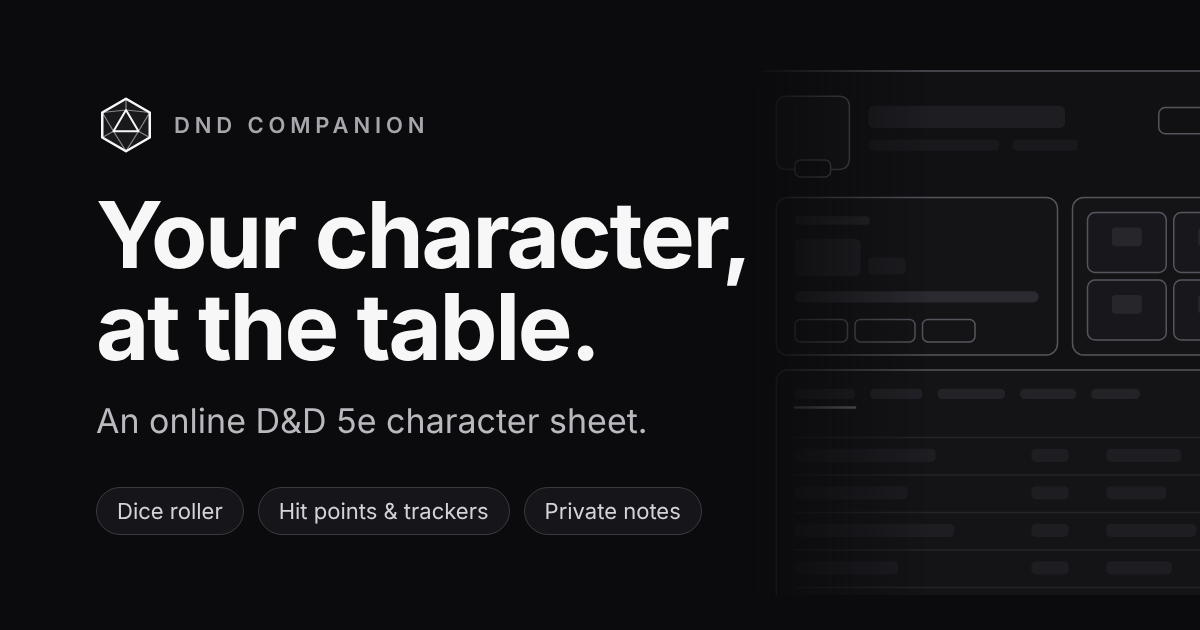
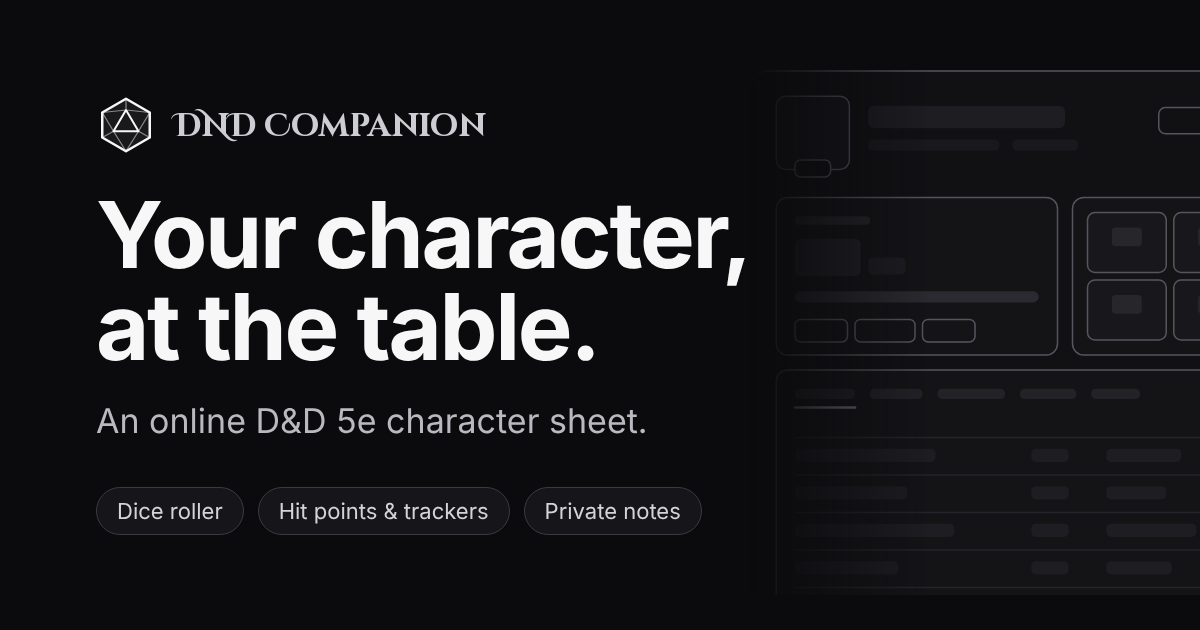
feat(brand): set DND Companion in Cinzel Decorative

Changed region(s): [[0.1233, 0.181, 0.4008, 0.2413]]

diff --git a/src/app.html b/src/app.html
@@ -13,10 +13,12 @@
       (PUBLIC_SITE_URL, set by the deploy workflow).
     -->
     <meta name="description" content="An online D&amp;D 5e character sheet." />
-    <!-- The site's type: Inter, from Google Fonts (src/app.css, --font-ui). -->
+    <!-- The site's type: Inter, from Google Fonts (src/app.css, --font-ui), and
+         Cinzel Decorative for the name "DND Companion" wherever it is the
+         brand (--font-brand). -->
     <link rel="preconnect" href="https://fonts.googleapis.com" />
     <link rel="preconnect" href="https://fonts.gstatic.com" crossorigin />
-    <link rel="stylesheet" href="https://fonts.googleapis.com/css2?family=Inter:wght@400..700&display=swap" />
+    <link rel="stylesheet" href="https://fonts.googleapis.com/css2?family=Cinzel+Decorative:wght@400;700&family=Inter:wght@400..700&display=swap" />
     <meta name="theme-color" content="#0b0b0d" />
     <!-- Home-screen app: the manifest for Android, the apple-* tags for iPhone. -->
     <link rel="manifest" href="%sveltekit.assets%/manifest.webmanifest" />
@@ -77,10 +79,10 @@
          away. The script below decides before the first paint. */
       html[data-known-user] #splash { display: none; }
       #splash span {
-        font-size: 0.75rem;
-        letter-spacing: 0.22em;
-        text-transform: uppercase;
-        font-weight: 600;
+        font-family: 'Cinzel Decorative', Georgia, serif;
+        font-size: 0.875rem;
+        letter-spacing: 0.08em;
+        font-weight: 700;
         color: oklch(65% 0.006 286);
       }
       #splash.out {

diff --git a/src/app.css b/src/app.css
@@ -165,6 +165,8 @@
 :root {
   --font-ui: 'Inter', system-ui, -apple-system, 'Segoe UI', sans-serif;
   --font-display: var(--font-ui);
+  /* The name "DND Companion" where it stands for the site: header, sign-in, splash. */
+  --font-brand: 'Cinzel Decorative', Georgia, 'Times New Roman', serif;
 }
 html, body { margin: 0; height: 100%; }
 /* Nothing may make the page wider than the screen: on a phone that lets the
@@ -276,3 +278,14 @@ body {
 }
 .rolls-hover:hover .diemark, .rolls-hover:focus-within .diemark { color: var(--a); transform: rotate(72deg) scale(1.15); }
 @media (prefers-reduced-motion: reduce) { .diemark { transition: none; } }
+
+/* "DND Companion" as the site's name. Cinzel Decorative sets its lower case
+   as small capitals, so the words keep their case and size a touch larger. */
+.brandname {
+  font-family: var(--font-brand);
+  font-weight: 700;
+  letter-spacing: 0.01em;
+  white-space: nowrap;
+  overflow: hidden;
+  text-overflow: ellipsis;
+}

diff --git a/src/lib/components/AuthForm.svelte b/src/lib/components/AuthForm.svelte
@@ -166,8 +166,8 @@
   }
   .brand :global(.logo) { color: var(--text); }
   .brand p {
-    margin: 0; text-align: center; font-size: 1.25rem;
-    font-weight: 600; letter-spacing: -0.01em;
+    margin: 0; text-align: center; font-size: 1.375rem;
+    font-family: var(--font-brand); font-weight: 700; letter-spacing: 0.01em;
   }
   /* Its own page centres in the viewport; embedded, it sits in the flow. */
   .standalone { min-height: 100dvh; align-items: center; padding: 1.5rem; }

diff --git a/src/routes/privacy/+page.svelte b/src/routes/privacy/+page.svelte
@@ -9,7 +9,7 @@
 <svelte:head><title>Privacy · DND Companion</title></svelte:head>
 
 <main class="policy">
-  <a class="back" href="{base}/">← DND Companion</a>
+  <a class="back" href="{base}/">← <span class="brandname">DND Companion</span></a>
   <h1>Privacy</h1>
   <p class="dim">Last updated 9 November 2026.</p>
 

diff --git a/src/routes/+page.svelte b/src/routes/+page.svelte
@@ -396,7 +396,7 @@
 {:else}
 <main>
   <header>
-    <h1><Logo size={30} />DND Companion</h1>
+    <h1><Logo size={30} /><span class="brandname">DND Companion</span></h1>
     <div class="tools">
       <SoundToggle />
       <ModeToggle />
